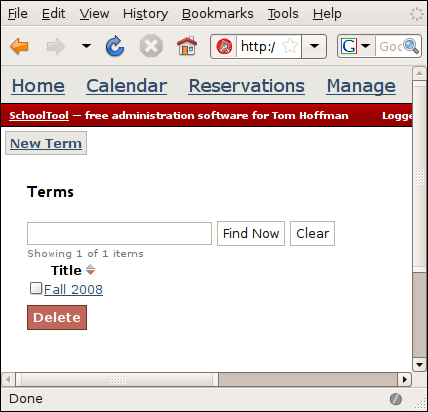
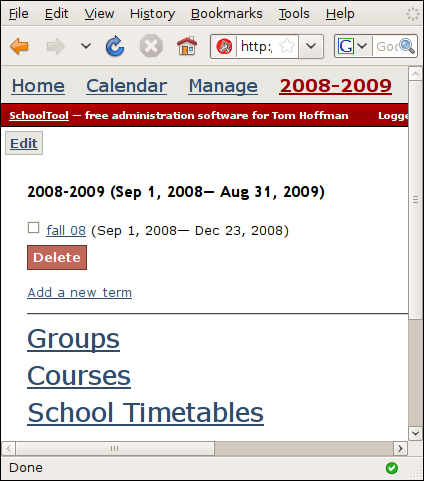
Started updating individual setup instructions to use years.

diff --git a/source/individual-terms.rst b/source/individual-terms.rst
@@ -1,25 +1,23 @@
 Creating Terms
 --------------
 
-Terms are periods of time which define the school year.  The term implementation is currently very simple.  There is no hierarchy of terms, for example school years which contain semesters which contain marking periods.  
+Terms are periods of time within school years that correspond to the duration of a section, like semesters and trimesters.  
 
-For the current implementation, simply define terms which correspond to the duration of a section.  For example, if you work with the same group of students on the same schedule for a full year, define one term as a year.  If you switch schedules and/or student groupings at the end of semesters or trimesters, define those as your terms.
+For example, if you work with the same group of students on the same schedule for a full year, you only need one big term.  If you switch schedules and/or student groupings at the end of semesters or trimesters, define those as your terms.
 
 In this example, we will create two semesters.
 
-As "manager," click **Manage** and then **Terms**:
+Logged in as "manager," click the active school year (below it is **2008-2009**) and then the **Add a new term** link, above **Groups**:
 
    .. image:: images/empty-terms.png
 
-Press the **New Term** button, and enter a name for the term and the start and end dates.  You can click on the **...** button to bring up a calendar selector:
+Enter a title for the term and the start and end dates. Then click **Next**.
 
-   .. image:: images/term-dates.png
-
-When you've got the start and end dates, click **Next**.
+   .. image:: images/term-add.png
 
 You will now see a calendar view which allows you to toggle specific days and dates on and off by clicking on them.  If a date is black means classes are in session; dates in red mean no classes.  Any day that student attendance will be taken should be in black.  A teacher training day with no classes would be red.  
 
-For example, I've added Christmas vacation the weeks of December 23rd and 30th:
+For example, I've set the standard school week from Monday to Friday and added Thanksgiving vacation the week of November 27th:
 
    .. image:: images/term-daily.png
 

diff --git a/source/years.rst b/source/years.rst
@@ -1,0 +1,21 @@
+Creating Years
+--------------
+
+A school year encompasses the annual cycle of a school.  For example, most students are promoted at the end of a year.  Most teachers start work at the beginning of the year.  Terms **must** be contained within years.
+
+The school year does not have to correspond to calendar year.  Whatever suits the processes of your school.  It is best to set this up so that every date is part of one school year or another.  School years **cannot** overlap.
+
+As "manager," click **Manage** and then **Terms**:
+
+   .. image:: images/empty-years.png
+
+Press the **New School Year** button and enter the Title for the year and the start and end dates and hit **Add**.  Keep the title as short as possible, because it is used as a link frequently.
+
+   .. image:: images/new-year.png
+
+This creates a new year, and since it is the only year, it automatically becomes the "active" year and shows up as a link in the top bar.
+
+   .. image:: images/year-created.png
+
+Going forward, to keep your data organized and archived cleanly, this year will "contain" things you'll soon be creating, like terms, group and section rosters, and timetables. 
+

diff --git a/source/individual-courses.rst b/source/individual-courses.rst
@@ -8,9 +8,9 @@ In SchoolTool, there is a distinction between "courses" and "sections."  A "cour
 
 Where one teacher teaches all subjects to a single group of kids, for example, in a kindergarten, you can either make everything one course ("Kindergarten") or split it up ("Kindergarten Math," etc.).  Whichever makes more sense for you.  Things like "homeroom" or "advisory" or "internship" that are scheduled at a specific time but don't have a set academic curriculum or grades are also considered courses.
 
-The course setup is important when a whole school is using SchoolTool.  For an individual, the most important thing is to keep it simple and functional.
+The course setup is significant when a whole school is using SchoolTool.  For an individual, the most important thing is to keep it simple and functional.
 
-To create courses, logged in as "manager," click **Manage** and then **Courses**:
+To create courses, logged in as "manager," click the active school year (below it is **2008-2009**) and then **Courses**:
 
    .. image:: images/course-index.png
 

diff --git a/source/individual.rst b/source/individual.rst
@@ -16,7 +16,8 @@ Contents:
 
    individual-setup
    individual-user
-   individual-courses
+   years
    individual-terms
+   individual-courses
    individual-timetable
    individual-view-timetables
